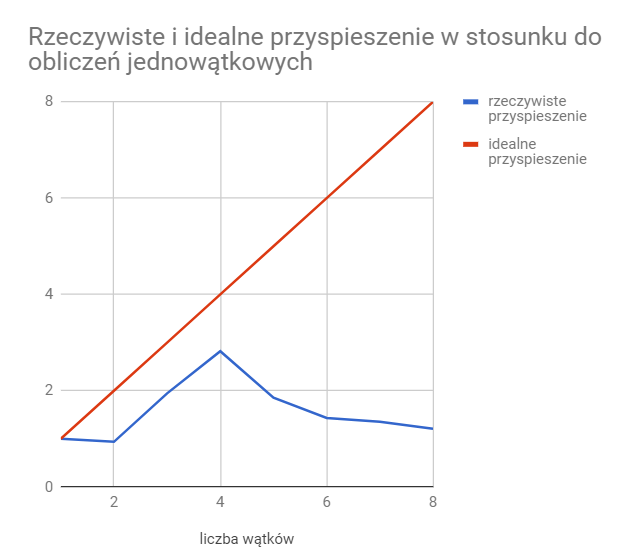
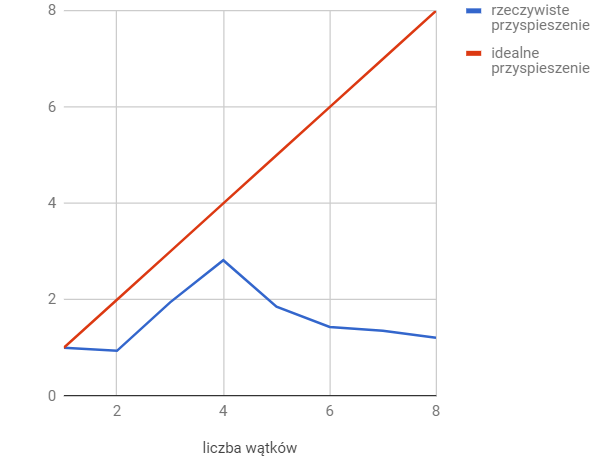
zad2 fix doc

diff --git a/zad2/dokumentacja/dok.tex b/zad2/dokumentacja/dok.tex
@@ -60,7 +60,7 @@ Grupa~4 & Katarzyna Kosiak i~Michał Folwarski & \ddmmyyyydate\today \tabularnew
 \end{tabular}
 
 \section*{Zadanie~2 -- Rozmycie Gaussa w~MPI}
-Program rozmywa zadane zdjęcie za pomocą algorytmu Gaussa z~maską o~wymiarach 5x5 korzystając z~zadanej liczby wątków.
+Program rozmywa zadane zdjęcie za pomocą algorytmu Gaussa z~maską o~wymiarach 5x5 korzystając z~zadanej liczby procesów.
 Zrównoleglono rozmywanie rzędów pikseli zadanego zdjęcia:
 \begin{lstlisting}
 if (rank == 0) {
@@ -80,20 +80,20 @@ if (rank == 0) {
 }
 \end{lstlisting}
 
-Wątek zerowy został uznany za nadzorujący całą operację filtrowania obrazu -- wykluczono go z~przetwarzania obrazu w~celu zwiększenia przejrzystości programu. Wątek zerowy rozsyła jednokrotnie równe bloki obrazu pozostałym wątkom, dzięki czemu wszystkie wykonują tę samą ilość działań o nierosnącym poziomie trudności i~nie muszą niepotrzebnie czekać na kolejne wiadomości od wątku zerowego. To rozwiązanie spełnia nasze oczekiwania pod względem prostoty oraz skuteczności.
+Proces zerowy został uznany za nadzorujący całą operację filtrowania obrazu -- wykluczono go z~przetwarzania obrazu w~celu zwiększenia przejrzystości programu. Wątek zerowy rozsyła jednokrotnie równe bloki obrazu pozostałym procesom, dzięki czemu wszystkie wykonują tę samą ilość działań o nierosnącym poziomie trudności i~nie muszą niepotrzebnie czekać na kolejne wiadomości od procesu zerowego. To rozwiązanie spełnia nasze oczekiwania pod względem prostoty oraz skuteczności.
 
 \begin{figure}[!hbtp]
   \centering
-  \includegraphics[width=0.9\textwidth]{wykres.png}
+  \includegraphics[width=0.8\textwidth]{wykres.png}
   \caption{Zależność czasu wykonania zadania od ilości procesów}
 \end{figure}
-Zamieszczony wykres na rysunku~1 pokazuje zależność czasu działania programu od liczby wątków dla przykładowego obrazu o~rozmiarze boku około 1500px na komputerze z~czterema procesorami.
+Zamieszczony wykres na rysunku~1 pokazuje zależność czasu działania programu od liczby procesów dla przykładowego obrazu o~rozmiarze boku około 1500px na komputerze z~czterema procesorami.
 
-Najkrótszy czas osiągnięto podczas zrównoleglenia na liczbę procesów równą liczbie procesorów. Dalsze zwiększanie liczby wątków może tylko pogorszyć czas, ponieważ musi zostać poświęcony dodatkowy czas na przełączanie kontekstu dla poszczególnych wątków na współdzielonych procesorach.
+Najkrótszy czas osiągnięto podczas zrównoleglenia na liczbę procesów równą liczbie procesorów. Dalsze zwiększanie liczby procesów może tylko pogorszyć czas, ponieważ musi zostać poświęcony dodatkowy czas na przełączanie kontekstu dla poszczególnych procesów na współdzielonych procesorach.
 
-Czas wykonania zadania dla dwóch wątków jest większy niż dla jednego ponieważ tylko jeden z~nich wykonuje właściwe obliczenia, podczas gdy wątek zerowy (pełniący rolę administratora) czeka na odebranie wiadomości z~przefiltrowanym obrazem.
+Czas wykonania zadania dla dwóch procesów jest większy niż dla jednego ponieważ tylko jeden z~nich wykonuje właściwe obliczenia, podczas gdy wątek zerowy (pełniący rolę administratora) czeka na odebranie wiadomości z~przefiltrowanym obrazem.
 
-Kolejny wykres (Rysunek~2) pokazuje dodatkowo, że nie nastąpiło idealnie trzykrotne przyspieszenie -- wynika to z~faktu, że przydzielanie zadań wątkom i~zarządzanie nimi także wymaga zasobów oraz tego, że wątek zerowy pełni rolę nadzorującą i~nie wykonuje obliczeń związanych z~filtrowaniem obrazu.
+Kolejny wykres (Rysunek~2) pokazuje dodatkowo, że nie nastąpiło idealnie trzykrotne przyspieszenie -- wynika to z~faktu, że przydzielanie zadań procesom i~zarządzanie nimi także wymaga zasobów oraz tego, że wątek zerowy pełni rolę nadzorującą i~nie wykonuje obliczeń związanych z~filtrowaniem obrazu.
 
 \begin{figure}[!hbtp]
   \centering
